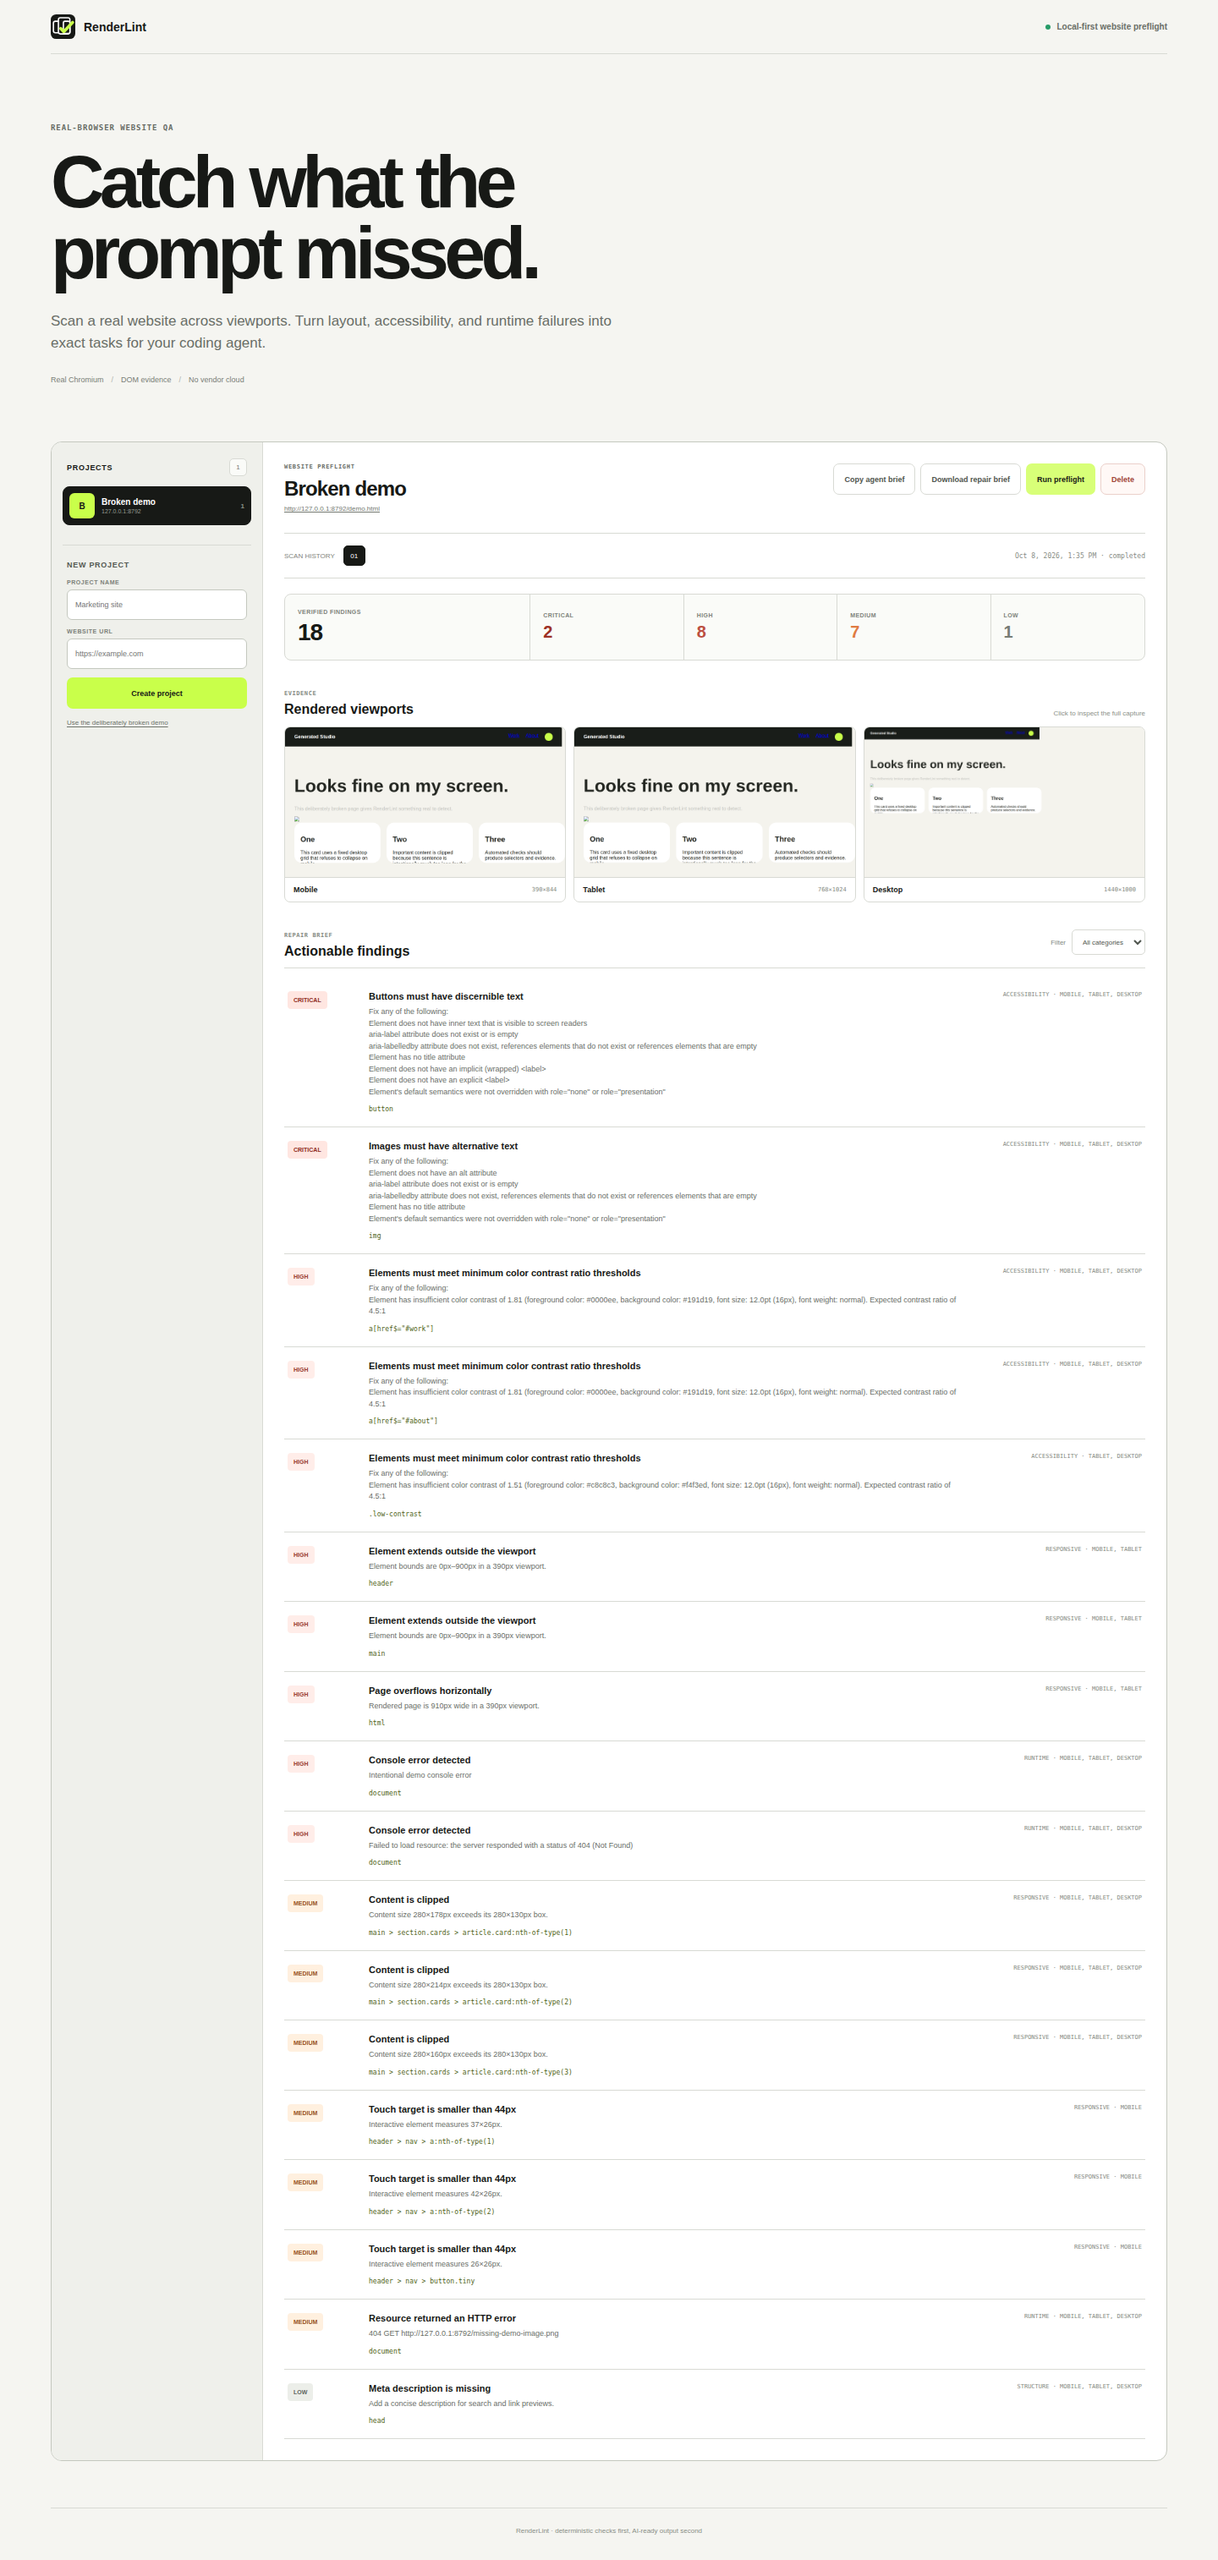
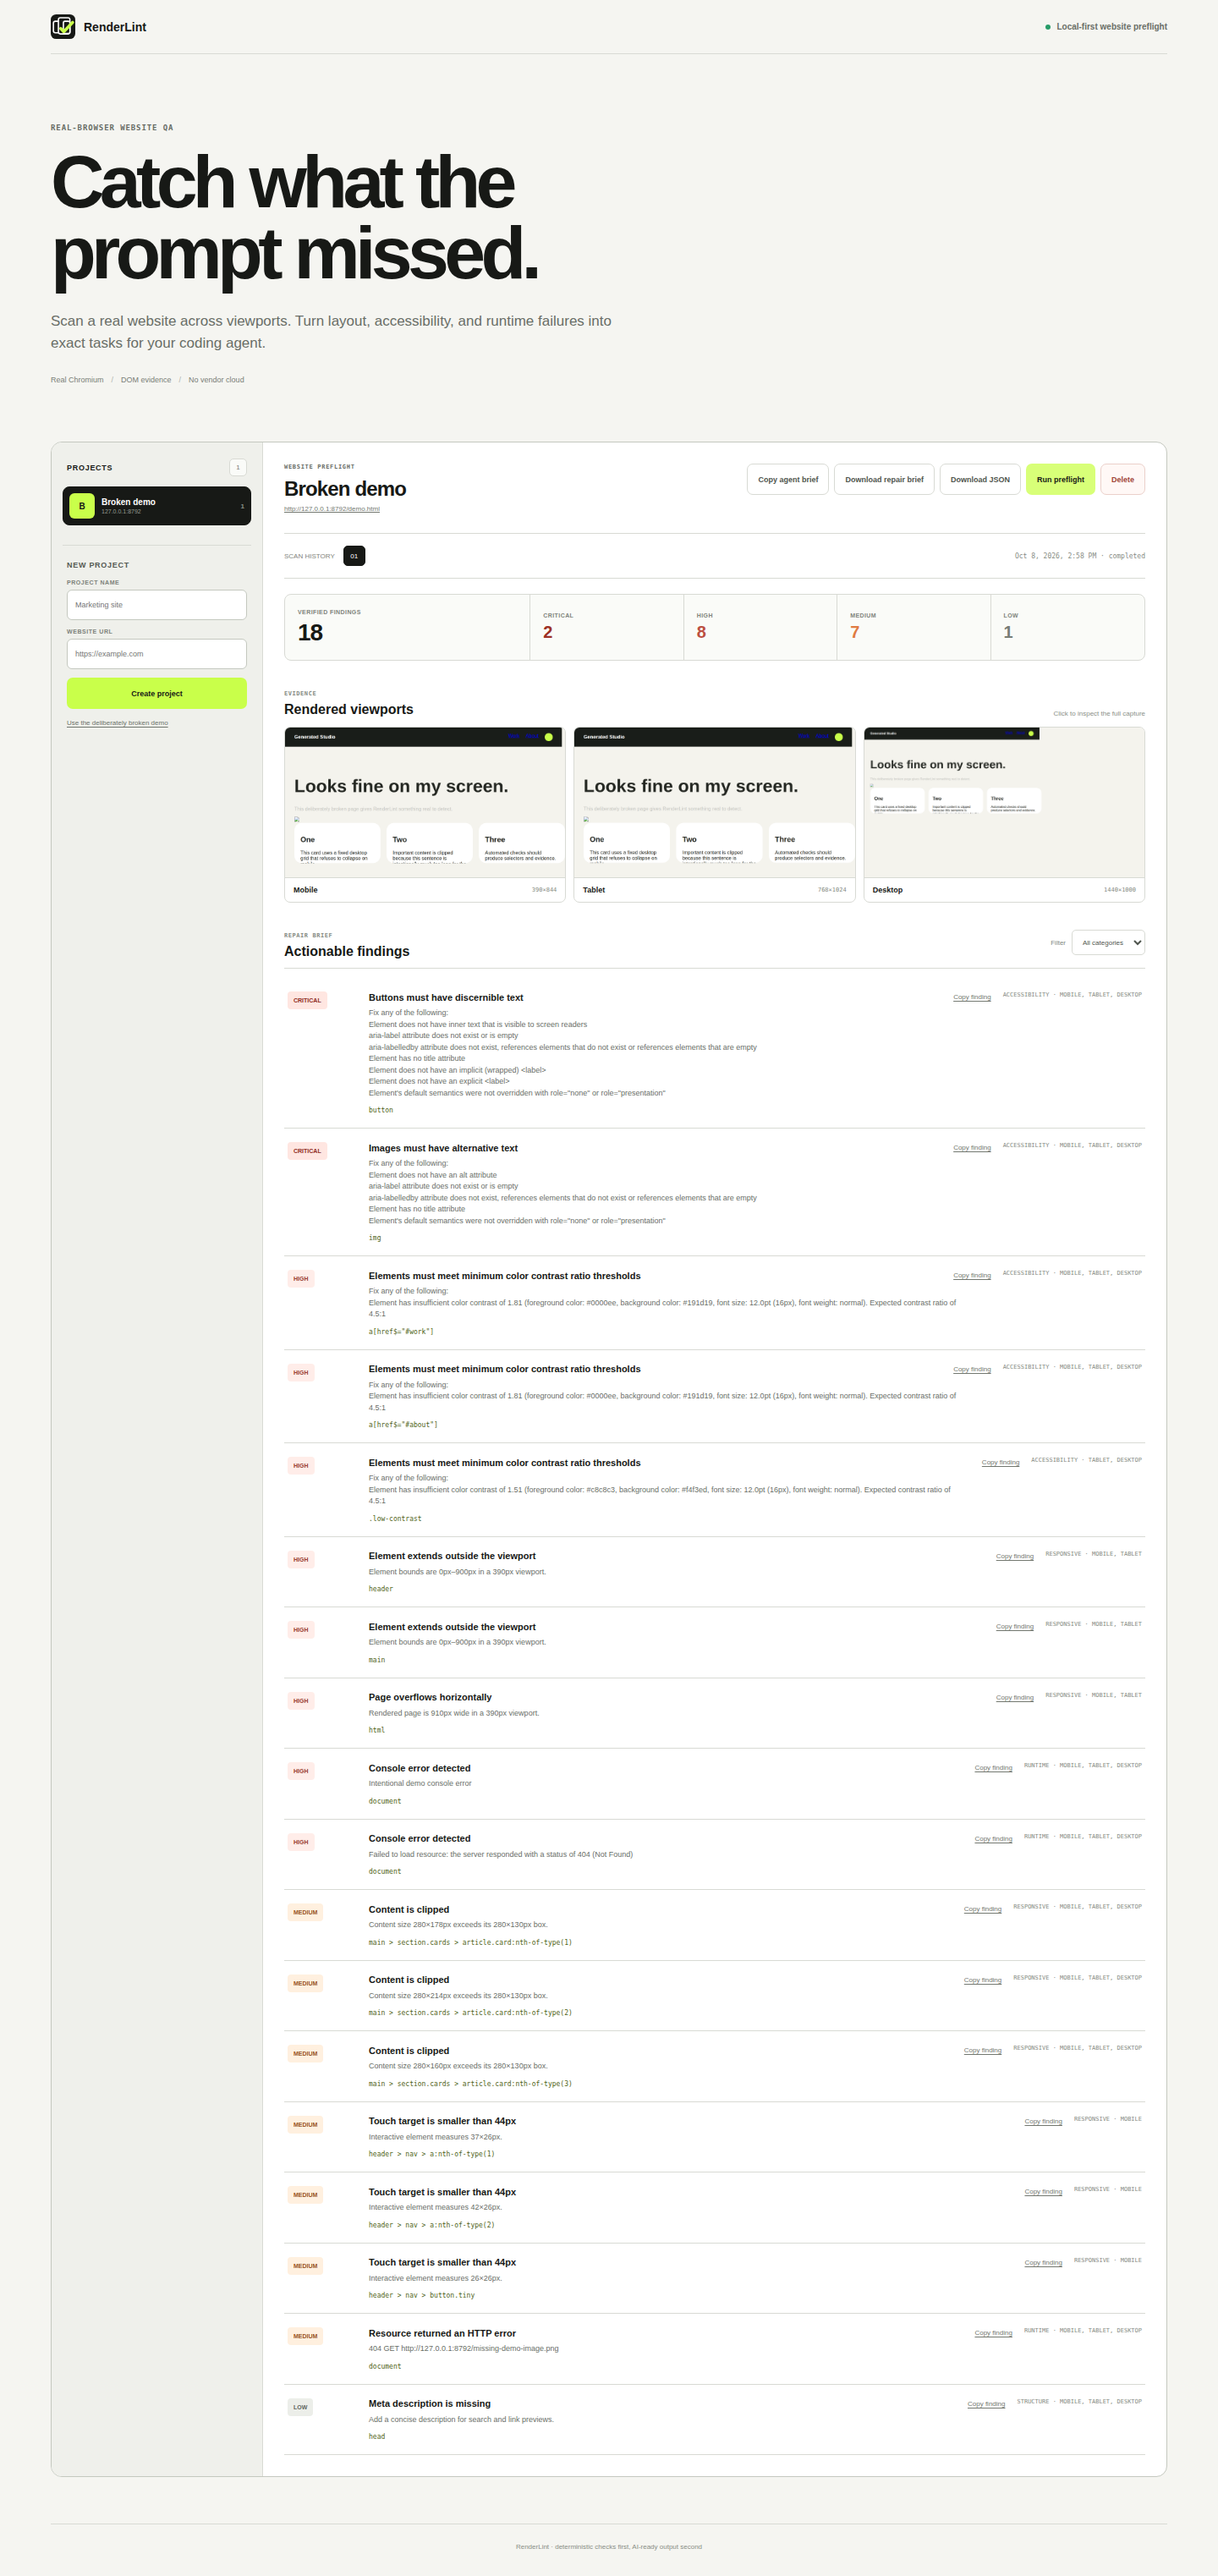
feat: add report exports and scan shortcuts

diff --git a/public/app.js b/public/app.js
@@ -32,6 +32,27 @@
     return new Intl.DateTimeFormat(undefined, { dateStyle: 'medium', timeStyle: 'short' }).format(new Date(value));
   }
 
+  async function copyText(value) {
+    if (navigator.clipboard?.writeText) return navigator.clipboard.writeText(value);
+    const textarea = document.createElement('textarea');
+    textarea.value = value;
+    textarea.style.cssText = 'position:fixed;opacity:0';
+    document.body.appendChild(textarea);
+    textarea.select();
+    document.execCommand('copy');
+    textarea.remove();
+  }
+
+  function downloadScan(path) {
+    if (!state.activeScan) return;
+    const link = document.createElement('a');
+    link.href = `/api/scans/${encodeURIComponent(state.activeScan.id)}/${path}`;
+    link.hidden = true;
+    document.body.appendChild(link);
+    link.click();
+    link.remove();
+  }
+
   function renderProjects() {
     const list = $('project-list');
     list.innerHTML = '';
@@ -87,6 +108,7 @@
     state.activeScan = null;
     $('copy-prompt').disabled = true;
     $('download-brief').disabled = true;
+    $('download-json').disabled = true;
     localStorage.setItem('renderlint:activeProject', id);
     renderProjects();
     $('project-placeholder').hidden = true;
@@ -134,6 +156,7 @@
     $('scan-meta').textContent = 'No scans yet.';
     $('copy-prompt').disabled = true;
     $('download-brief').disabled = true;
+    $('download-json').disabled = true;
   }
 
   async function loadScan(id) {
@@ -162,6 +185,7 @@
     $('run-scan').disabled = true;
     $('copy-prompt').disabled = true;
     $('download-brief').disabled = true;
+    $('download-json').disabled = true;
   }
 
   function showFailed(message) {
@@ -174,6 +198,7 @@
     $('run-scan').disabled = false;
     $('copy-prompt').disabled = true;
     $('download-brief').disabled = true;
+    $('download-json').disabled = true;
   }
 
   async function pollScan(id, token) {
@@ -205,6 +230,7 @@
     $('run-scan').disabled = false;
     $('copy-prompt').disabled = false;
     $('download-brief').disabled = false;
+    $('download-json').disabled = false;
     $('summary-total').textContent = scan.summary.total;
     ['critical', 'high', 'medium', 'low'].forEach((severity) => {
       $(`summary-${severity}`).textContent = scan.summary.bySeverity[severity] || 0;
@@ -270,12 +296,35 @@
       copy.className = 'issue-copy';
       const title = document.createElement('h4');
       title.textContent = issue.title;
+      const heading = document.createElement('div');
+      heading.className = 'issue-heading';
+      const copyButton = document.createElement('button');
+      copyButton.className = 'copy-finding';
+      copyButton.type = 'button';
+      copyButton.textContent = 'Copy finding';
+      copyButton.addEventListener('click', async () => {
+        const finding = [
+          `## [${issue.severity.toUpperCase()}] ${issue.title}`,
+          `Category: ${issue.category}`,
+          `Rule: ${issue.rule}`,
+          `Viewport(s): ${issue.viewports.join(', ')}`,
+          `Selector: ${issue.selector}`,
+          `Evidence: ${issue.detail}`,
+        ].join('\n');
+        try {
+          await copyText(finding);
+          toast('Finding copied.');
+        } catch (error) {
+          toast(error.message, true);
+        }
+      });
+      heading.append(title, copyButton);
       const detail = document.createElement('p');
       detail.textContent = issue.detail;
       const selector = document.createElement('code');
       selector.className = 'selector';
       selector.textContent = issue.selector;
-      copy.append(title, detail, selector);
+      copy.append(heading, detail, selector);
       const meta = document.createElement('span');
       meta.className = 'issue-meta';
       meta.textContent = `${issue.category} · ${issue.viewports.join(', ')}`;
@@ -311,7 +360,7 @@
     form.elements.name.focus();
   });
 
-  $('run-scan').addEventListener('click', async () => {
+  async function runScan() {
     if (!state.activeProject) return;
     $('run-scan').disabled = true;
     try {
@@ -327,22 +376,22 @@
       toast(error.message, true);
       $('run-scan').disabled = false;
     }
+  }
+
+  $('run-scan').addEventListener('click', runScan);
+
+  document.addEventListener('keydown', (event) => {
+    if (event.key !== 'Enter' || (!event.ctrlKey && !event.metaKey) || event.repeat) return;
+    if (!state.activeProject || $('run-scan').disabled) return;
+    event.preventDefault();
+    runScan();
   });
 
   $('copy-prompt').addEventListener('click', async () => {
     if (!state.activeScan) return;
     try {
       const prompt = await request(`/api/scans/${state.activeScan.id}/prompt`, {}, true);
-      if (navigator.clipboard?.writeText) await navigator.clipboard.writeText(prompt);
-      else {
-        const textarea = document.createElement('textarea');
-        textarea.value = prompt;
-        textarea.style.cssText = 'position:fixed;opacity:0';
-        document.body.appendChild(textarea);
-        textarea.select();
-        document.execCommand('copy');
-        textarea.remove();
-      }
+      await copyText(prompt);
       toast('Agent repair brief copied.');
     } catch (error) {
       toast(error.message, true);
@@ -350,14 +399,13 @@
   });
 
   $('download-brief').addEventListener('click', () => {
-    if (!state.activeScan) return;
-    const link = document.createElement('a');
-    link.href = `/api/scans/${encodeURIComponent(state.activeScan.id)}/brief`;
-    link.hidden = true;
-    document.body.appendChild(link);
-    link.click();
-    link.remove();
+    downloadScan('brief');
     toast('Repair brief download started.');
+  });
+
+  $('download-json').addEventListener('click', () => {
+    downloadScan('report');
+    toast('JSON report download started.');
   });
 
   $('delete-project').addEventListener('click', async () => {

diff --git a/tests/browser.spec.js b/tests/browser.spec.js
@@ -1,7 +1,7 @@
 const { test, expect } = require('@playwright/test');
 
 const baseUrl = process.env.RENDERLINT_URL || 'http://127.0.0.1:8791';
-test.setTimeout(60_000);
+test.setTimeout(90_000);
 
 test('creates a project, scans the broken demo, and renders an actionable report', async ({ page, request }) => {
   const errors = [];
@@ -30,6 +30,8 @@ test('creates a project, scans the broken demo, and renders an actionable report
     await expect(page.locator('#issue-list')).toContainText('Page overflows horizontally');
     await expect(page.locator('#copy-prompt')).toBeEnabled();
     await expect(page.locator('#download-brief')).toBeEnabled();
+    await expect(page.locator('#download-json')).toBeEnabled();
+    await expect(page.locator('.copy-finding').first()).toBeVisible();
 
     const downloadPromise = page.waitForEvent('download');
     await page.locator('#download-brief').click();
@@ -40,6 +42,25 @@ test('creates a project, scans the broken demo, and renders an actionable report
       for await (const chunk of stream) content += chunk.toString();
       return content;
     })).toContain('Project: Broken demo');
+
+    const jsonDownloadPromise = page.waitForEvent('download');
+    await page.locator('#download-json').click();
+    const jsonDownload = await jsonDownloadPromise;
+    expect(jsonDownload.suggestedFilename()).toBe('renderlint-127-0-0-1-report.json');
+    const jsonPath = await jsonDownload.path();
+    const report = JSON.parse(require('node:fs').readFileSync(jsonPath, 'utf8'));
+    expect(report.schemaVersion).toBe(1);
+    expect(report.project.name).toBe('Broken demo');
+    expect(report.scan.issues.length).toBeGreaterThan(0);
+
+    await page.locator('.copy-finding').first().click();
+    await expect(page.locator('#toast')).toContainText('Finding copied.');
+
+    const scanCount = await page.locator('#scan-list .scan-chip').count();
+    await page.keyboard.press('Control+Enter');
+    await expect(page.locator('#scan-list .scan-chip')).toHaveCount(scanCount + 1);
+    await expect(page.locator('#scan-state')).toBeVisible();
+    await expect(page.locator('#report')).toBeVisible({ timeout: 45_000 });
 
     const total = Number(await page.locator('#summary-total').textContent());
     expect(total).toBeGreaterThan(0);

diff --git a/src/server.js b/src/server.js
@@ -6,7 +6,7 @@ const path = require('node:path');
 const express = require('express');
 const { createDatabase, mapProject, mapScan } = require('./database');
 const { scanWebsite } = require('./scanner');
-const { buildAgentPrompt, buildBriefFilename } = require('./prompt');
+const { buildAgentPrompt, buildBriefFilename, buildJsonFilename } = require('./prompt');
 
 const port = Number(process.env.PORT || 8787);
 const host = process.env.HOST || '127.0.0.1';
@@ -174,6 +174,19 @@ app.get('/api/scans/:id/brief', (request, response) => {
   const project = mapProject(getProject(scan.projectId));
   response.attachment(buildBriefFilename(scan));
   response.type('text/markdown').send(buildAgentPrompt(project, scan));
+});
+
+app.get('/api/scans/:id/report', (request, response) => {
+  const scan = getScan(request.params.id, true);
+  if (!scan) return response.status(404).json({ error: 'Scan not found.' });
+  if (scan.status !== 'completed') return response.status(409).json({ error: 'The scan is not complete.' });
+  const project = mapProject(getProject(scan.projectId));
+  response.attachment(buildJsonFilename(scan));
+  return response.json({
+    schemaVersion: 1,
+    project: { id: project.id, name: project.name, targetUrl: project.targetUrl },
+    scan,
+  });
 });
 
 app.use('/evidence', express.static(evidenceDir, { dotfiles: 'deny', fallthrough: false, immutable: false }));

diff --git a/public/app.css b/public/app.css
@@ -177,7 +177,10 @@ a { color: inherit; }
 .severity.medium { color: #99531d; background: #fff0df; }
 .severity.low { color: #61665f; background: #eceee9; }
 .issue-copy { min-width: 0; }
+.issue-heading { display: flex; align-items: center; justify-content: space-between; gap: 12px; }
 .issue h4 { margin: 0; font-size: 11px; }
+.copy-finding { flex: 0 0 auto; padding: 2px 0; border: 0; color: #737870; background: transparent; cursor: pointer; font-size: 8px; text-decoration: underline; text-underline-offset: 2px; }
+.copy-finding:hover { color: var(--blue); }
 .issue p { max-width: 700px; margin: 6px 0 9px; color: var(--muted); font-size: 9px; line-height: 1.5; white-space: pre-line; }
 .selector { display: block; overflow: hidden; color: #506417; font: 8px ui-monospace, SFMono-Regular, Consolas, monospace; text-overflow: ellipsis; white-space: nowrap; }
 .issue-meta { color: #858a82; font: 7px ui-monospace, SFMono-Regular, Consolas, monospace; text-align: right; text-transform: uppercase; }

diff --git a/src/prompt.js b/src/prompt.js
@@ -32,15 +32,22 @@ function buildAgentPrompt(project, scan) {
   return lines.join('\n');
 }
 
-function buildBriefFilename(scan) {
+function targetSlug(scan) {
   let label = 'website';
   try {
     label = new URL(scan.targetUrl).hostname || label;
   } catch {
     // Keep the generic label if stored scan data does not contain a valid URL.
   }
-  const slug = label.toLowerCase().replace(/[^a-z0-9]+/g, '-').replace(/^-|-$/g, '') || 'website';
-  return `renderlint-${slug}-report.md`;
+  return label.toLowerCase().replace(/[^a-z0-9]+/g, '-').replace(/^-|-$/g, '') || 'website';
 }
 
-module.exports = { buildAgentPrompt, buildBriefFilename };
+function buildBriefFilename(scan) {
+  return `renderlint-${targetSlug(scan)}-report.md`;
+}
+
+function buildJsonFilename(scan) {
+  return `renderlint-${targetSlug(scan)}-report.json`;
+}
+
+module.exports = { buildAgentPrompt, buildBriefFilename, buildJsonFilename };

diff --git a/public/index.html b/public/index.html
@@ -55,7 +55,8 @@
             <div class="actions">
               <button class="button quiet" id="copy-prompt" type="button" disabled>Copy agent brief</button>
               <button class="button quiet" id="download-brief" type="button" disabled>Download repair brief</button>
-              <button class="button primary" id="run-scan" type="button">Run preflight</button>
+              <button class="button quiet" id="download-json" type="button" disabled>Download JSON</button>
+              <button class="button primary" id="run-scan" type="button" aria-keyshortcuts="Control+Enter Meta+Enter" title="Run preflight (Ctrl/Command+Enter)">Run preflight</button>
               <button class="button danger" id="delete-project" type="button">Delete</button>
             </div>
           </header>

diff --git a/tests/prompt.test.js b/tests/prompt.test.js
@@ -2,7 +2,7 @@
 
 const test = require('node:test');
 const assert = require('node:assert/strict');
-const { buildAgentPrompt, buildBriefFilename } = require('../src/prompt');
+const { buildAgentPrompt, buildBriefFilename, buildJsonFilename } = require('../src/prompt');
 
 test('agent prompt contains verified evidence and implementation constraints', () => {
   const prompt = buildAgentPrompt(
@@ -31,4 +31,8 @@ test('repair brief filename uses a safe target hostname slug', () => {
     'renderlint-docs-example-com-report.md',
   );
   assert.equal(buildBriefFilename({ targetUrl: 'not a URL' }), 'renderlint-website-report.md');
+  assert.equal(
+    buildJsonFilename({ targetUrl: 'https://Docs.Example.com:8443/path?q=1' }),
+    'renderlint-docs-example-com-report.json',
+  );
 });

diff --git a/README.md b/README.md
@@ -24,6 +24,8 @@ exact DOM selectors and evidence for Codex, Claude Code, Cursor, or another codi
 - H1 and meta-description structure checks.
 - Severity and category filters.
 - Agent-ready repair briefs that can be copied or downloaded as Markdown.
+- Structured JSON report export for CI and custom automation.
+- One-click copying for individual findings and `Ctrl/Command+Enter` scan reruns.
 - A deliberately broken local demo for validating the scanner.
 - No hosted service, account, analytics, or LLM API required.
 

diff --git a/CHANGELOG.md b/CHANGELOG.md
@@ -8,6 +8,8 @@ Versioning once a stable public API is established.
 ### Added
 
 - Download completed repair briefs as hostname-based Markdown files.
+- Export complete scan results as structured JSON reports.
+- Copy individual findings and rerun scans with `Ctrl/Command+Enter`.
 - GitHub Actions checks for unit, browser, Docker, and smoke tests.
 - Playwright browser-test configuration.
 - Project license and community health documentation.
